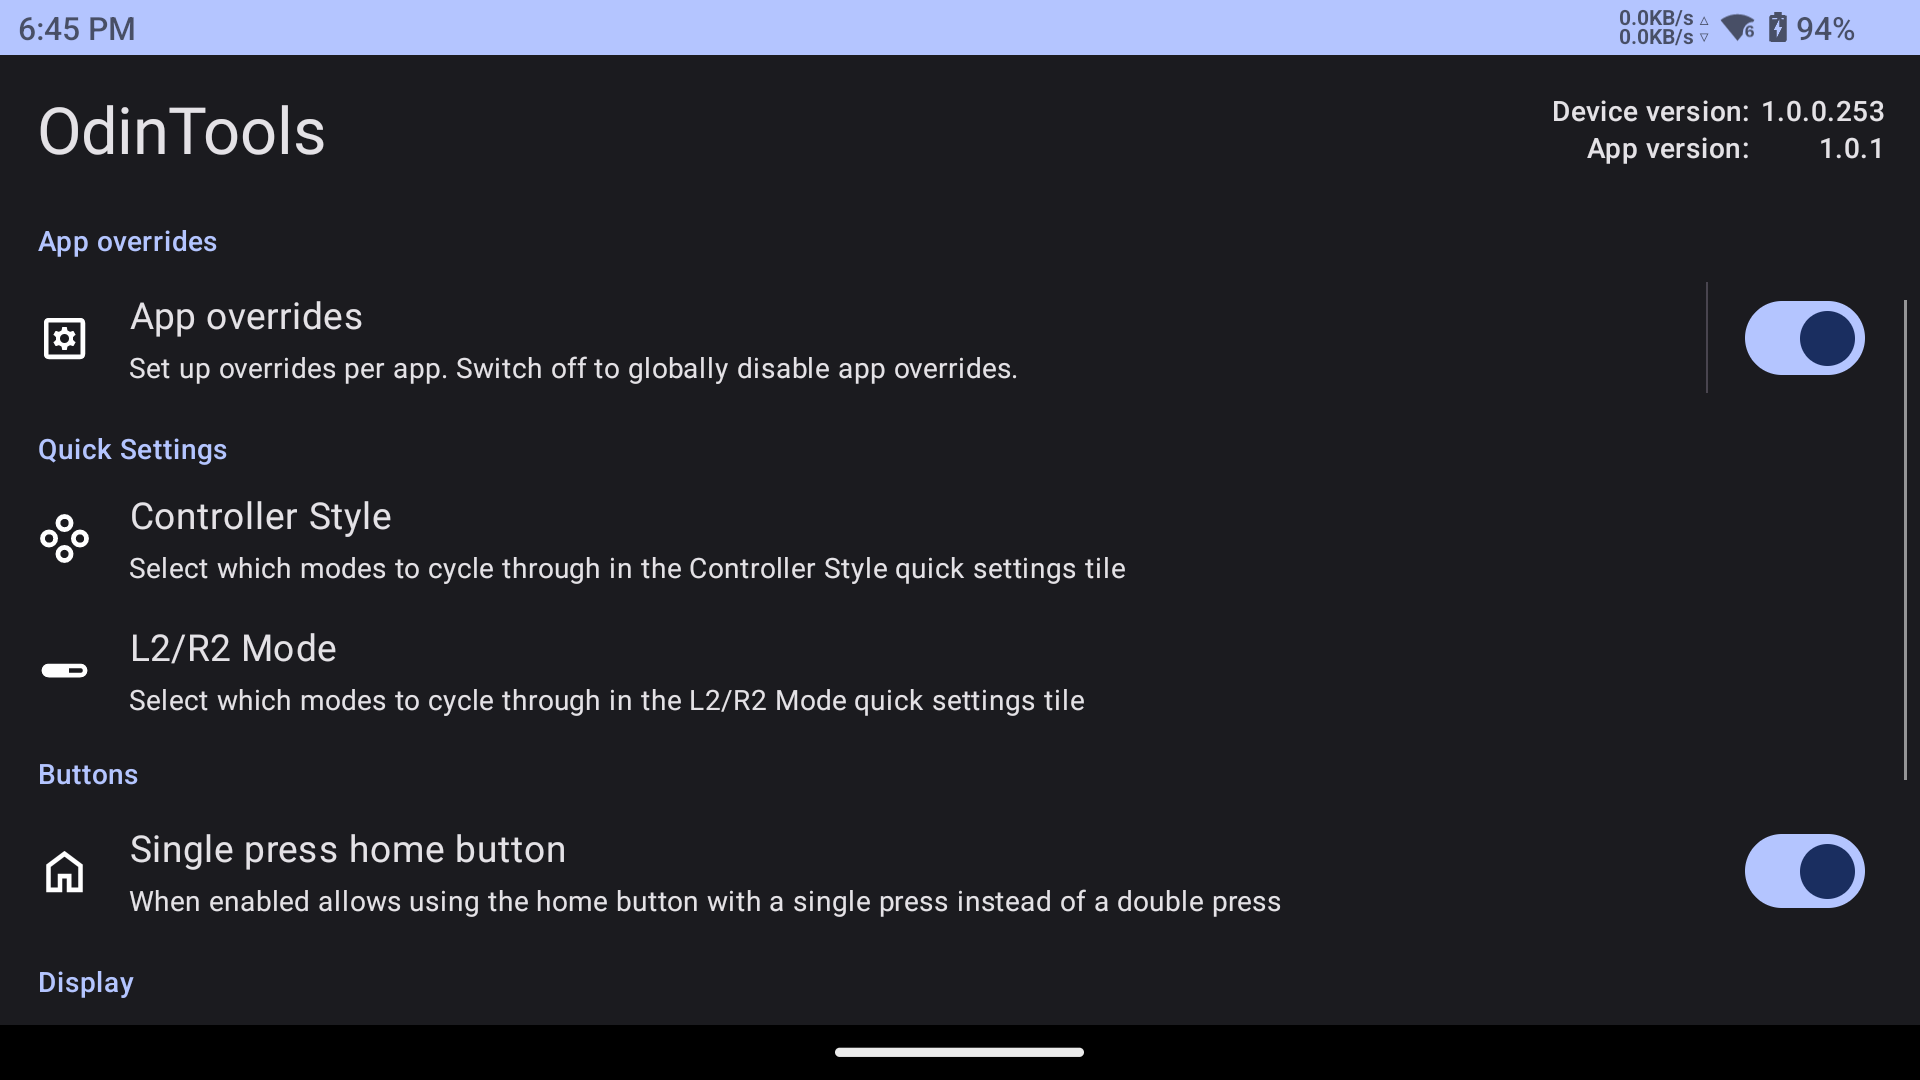
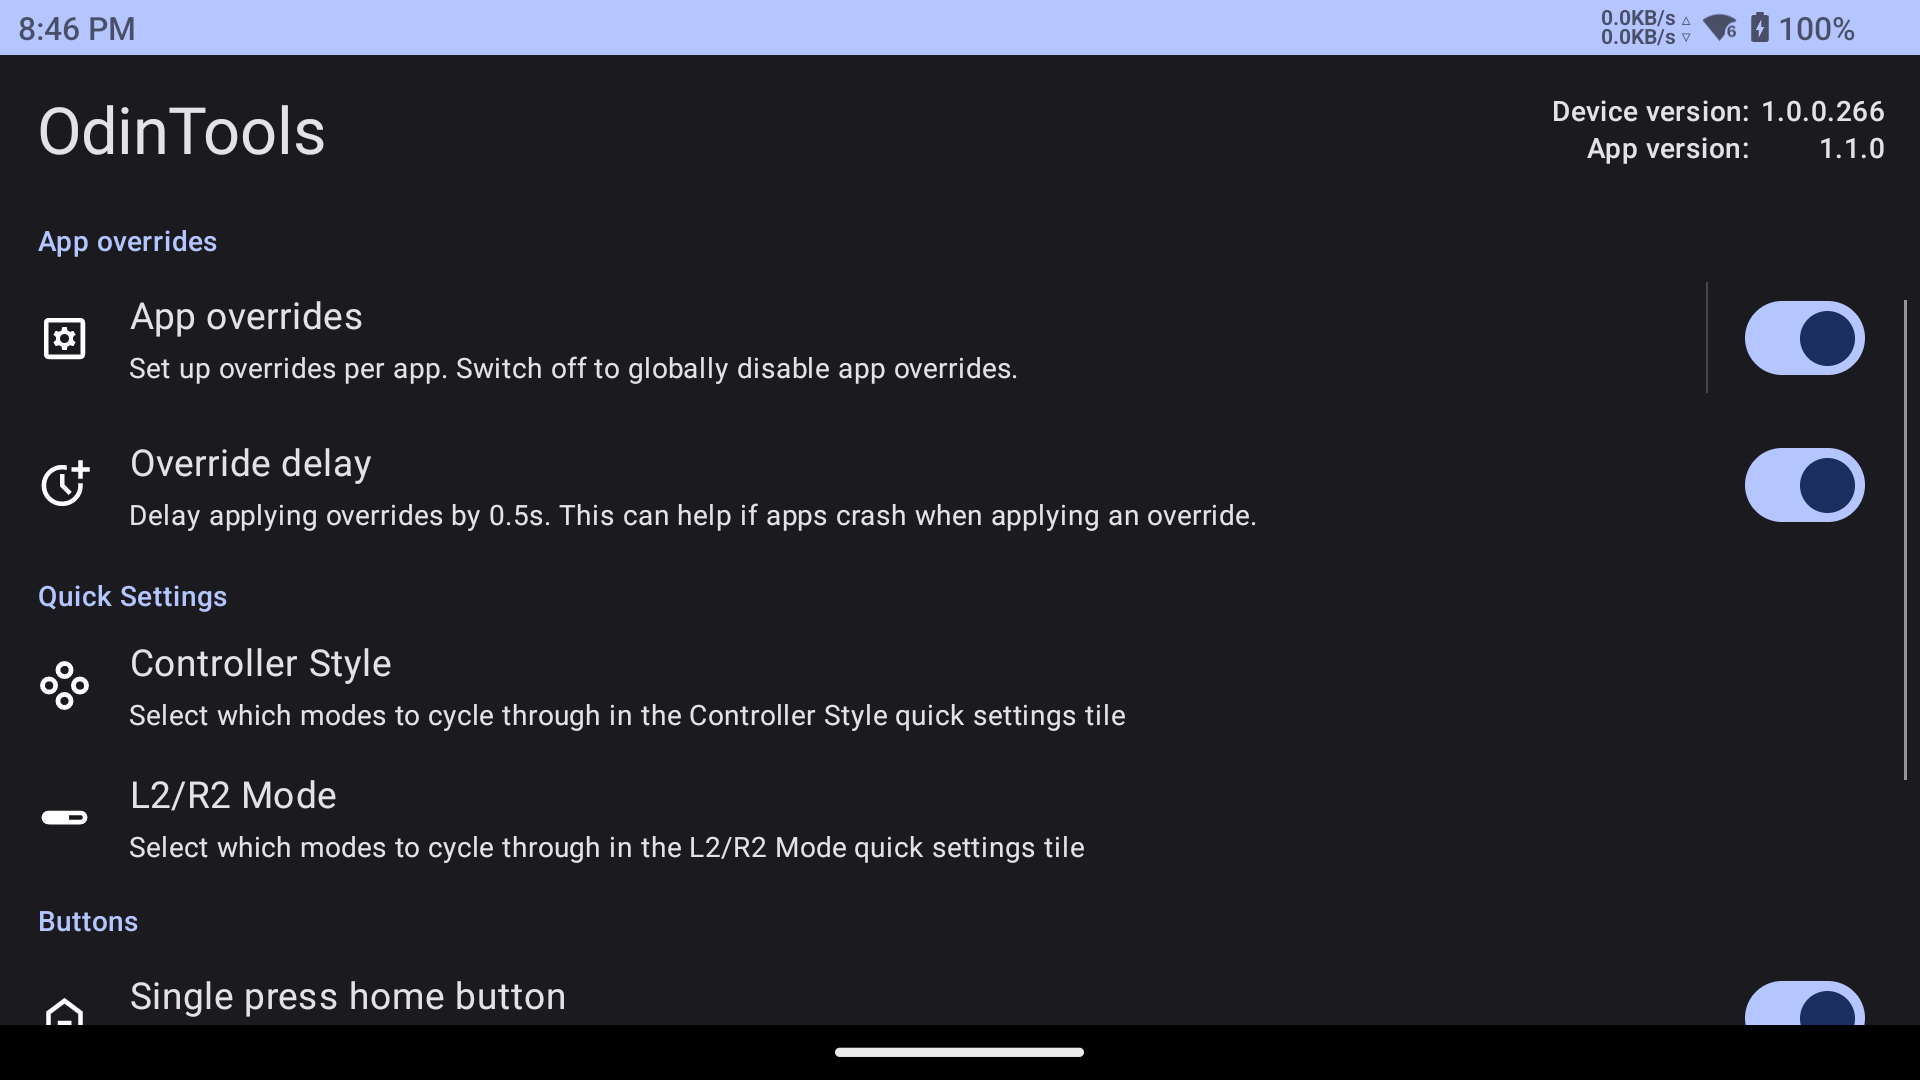
Update docs for 1.1.0 release

diff --git a/README.md b/README.md
@@ -1,7 +1,7 @@
 # OdinTools
 Collection of utilities for the AYN Odin 2.
 
-Latest release: **[1.0.1](https://github.com/langerhans/OdinTools/releases/latest)**
+Latest release: **[1.1.0](https://github.com/langerhans/OdinTools/releases/latest)**
 
 ### Features
 - Quick settings tile for switching the controller style with user selectable option for which styles to cycle through
@@ -9,12 +9,13 @@ Latest release: **[1.0.1](https://github.com/langerhans/OdinTools/releases/lates
 - Single press home button setting to allow going to the home screen by a single press of the home button
 - Display saturation setting. This is set immediately and will be applied after a reboot as well. Note that it takes a few seconds after you first unlock the device to apply.
 - Per-app overrides for both controller style and L2/R2 style settings. These will be applied and reverted automatically based on the current foreground app 
+- Per-app overrides for performance and fan modes. They function just like controller style overrides.
 
 ### Contact
 If you have any questions, feel free to find me on the AYN Discord at https://discord.com/invite/pWCpvEUTdR
 
 ### Compatibility
-This app has been tested with the Odin 2 firmware version **1.0.0.253**. It's possible that AYN breaks the methods used by this app in a future update. The app will warn you accordingly if that's the case.
+This app has been tested with the Odin 2 firmware version **1.0.0.266**. It's possible that AYN breaks the methods used by this app in a future update. The app will warn you accordingly if that's the case.
 
 ### Screenshots
 #### Main menu
@@ -23,3 +24,4 @@ This app has been tested with the Odin 2 firmware version **1.0.0.253**. It's po
 ![image](docs/qs_tiles.png)
 #### App overrides
 ![image](docs/app_overrides.png)
+![image](docs/override_config.png)
